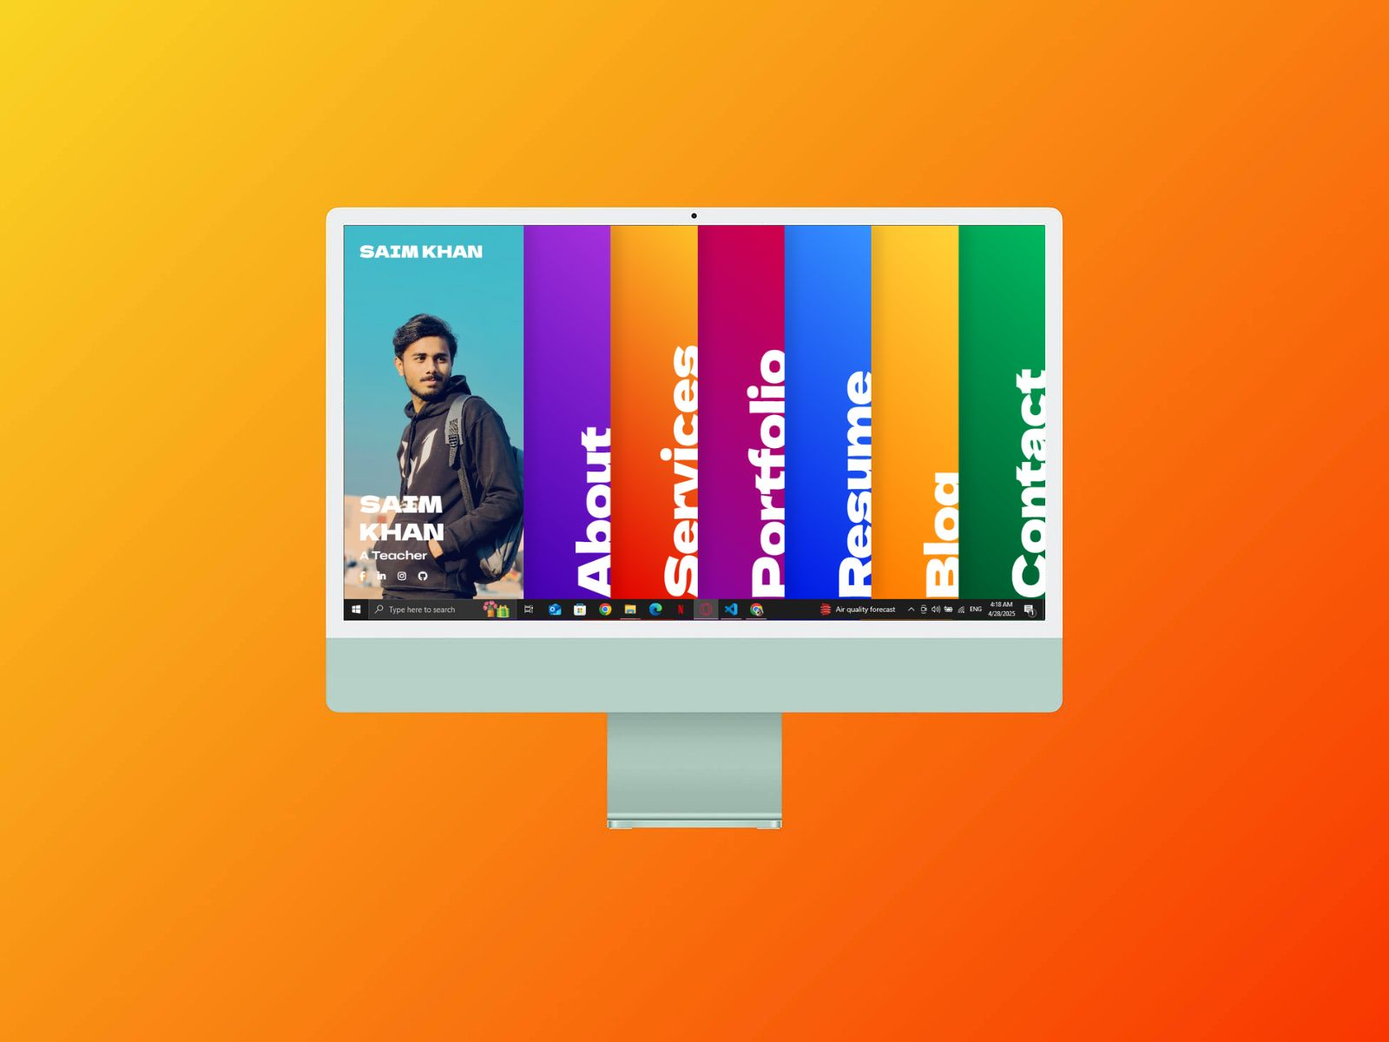
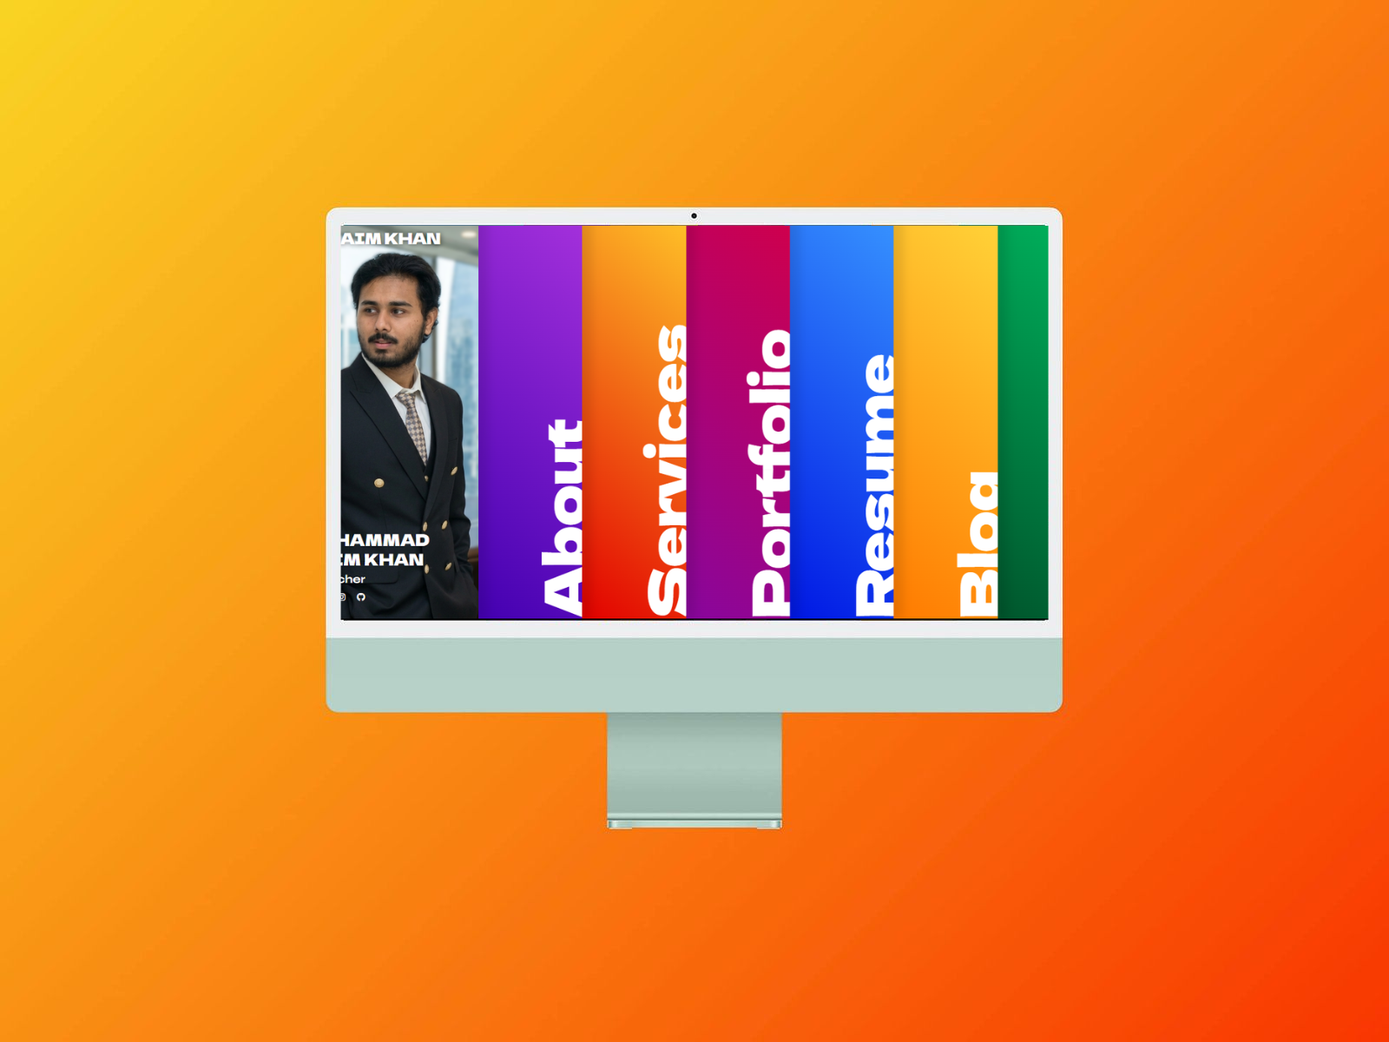
Finalized about, services and portfolio section

Changed region(s): [[0.2188, 0.2158, 0.7812, 0.6167]]

diff --git a/index.html b/index.html
@@ -47,9 +47,9 @@
   <body class="d-flex flex-column">
     <!-- ============================ HEADER START ============================== -->
     <header id="header" class="header-v1 d-flex transition">
-      <a class="navbar-brand" href="index.html"><h1 class="mainhead">M.  SAIM KHAN</h1></a>
+      <a class="navbar-brand" href="index.html"><h1 class="mainhead" style="text-shadow: 1px 1px 10px rgba(0, 0, 0, 0.5); color: rgb(255, 255, 255);">M.  SAIM KHAN</h1></a>
       <div class="header-img-hold z-index-1">
-        <img class="w-100 h-100 img-cover" src="include/images/hero.jpg" alt="">
+        <img class="w-100 h-100 img-cover" src="include/images/hero.png" alt="">
       </div>
       <div class="header-content d-flex flex-column align-items-start justify-content-end z-index-2">
         <h1 class="mb-2 text-uppercase" style="font-size:34px;">Muhammad<br>Saim Khan</h1>
@@ -66,10 +66,10 @@
             <a href="https://www.facebook.com/profile.php?id=100084107371898" target="_blank"><i class="fa-brands fa-facebook-f"></i></a>
           </li>
           <li>
-            <a href="" target="_blank"><i class="fa-brands fa-linkedin-in"></i></a>
+            <a href="https://www.linkedin.com/in/saim-khan-802534311/" target="_blank"><i class="fa-brands fa-linkedin-in"></i></a>
           </li>
           <li>
-            <a href="https://www.instagram.com/_s_a_i_m_0_7_?igsh=cXFvMjkwbHhuNHV3" target="_blank"><i class="fa-brands fa-instagram"></i></a>
+            <a href="https://www.instagram.com/sam.html_?igsh=cXFvMjkwbHhuNHV3" target="_blank"><i class="fa-brands fa-instagram"></i></a>
           </li>
           <li>
             <a href="https://github.com/itsSam0711" target="_blank"><i class="fa-brands fa-github"></i></a>
@@ -86,7 +86,7 @@
               About
               <span class="arrow outline"><i class="fa-solid fa-arrow-right"></i></span>
             </h2>
-            <h3 class="hero-heading" style="font-size: 34px;">I specialize in creating custom websites, implementing digital marketing strategies, and providing lead generation solutions.</h3>
+            <h3 class="hero-heading" style="font-size: 34px;">I’m currently researching AI to build modern intelligent tools, while bringing strong expertise in full stack web development and WordPress to create efficient, high-performing digital solutions.</h3>
 
             <div class="navbar-icon">
               <img src="include/images/about-icon.png" alt="">
@@ -111,7 +111,7 @@
               Services
               <span class="arrow outline"><i class="fa-solid fa-arrow-right"></i></span>
             </h2>
-            <h3 class="hero-heading" style="font-size: 34px;">I'm an IT student and a passionate web developer, focused on building clean, responsive, and dynamic websites. With every project, I sharpen my skills and push my creativity forward, turning ideas into impactful digital solutions.</h3>
+            <h3 class="hero-heading" style="font-size: 34px;">I offer a range of professional IT and development services focused on delivering efficient, scalable, and high-quality digital solutions.</h3>
             <div class="navbar-icon">
               <img src="include/images/services-icon.png" alt="">
             </div>
@@ -183,7 +183,7 @@
               Blog
               <span class="arrow outline"><i class="fa-solid fa-arrow-right"></i></span>
             </h2>
-            <h3 class="hero-heading">The Blog is currently underdevelopment. So, developer choosed to disable this portion for a while..</h3>
+            <h3 class="hero-heading">Check out my Blog..</h3>
             <div class="navbar-icon">
               <img src="include/images/blog-icon.png" alt="">
             </div>
@@ -259,10 +259,11 @@
                 <h2 class="page-heading text-clip bg-gradient-1">Hi, I am Saim Khan.</h2>
                 <div class="animate-child">
                   <p>
-                    I am a self-motivated and creative web developer with a keen eye for design and functionality. I specialize in creating websites that are not only visually appealing but also optimized for performance, accessibility, and user experience. Whether it's a simple landing page or a complex web application, I bring precision and innovation to every project.
+                    I am a results-driven <b>IT professional</b> with hands-on experience in full stack development, AI tools development, and practical software solutions. I have successfully built responsive web applications, along with custom WordPress websites tailored to real-world business needs. <br> I have developed <b>AI tools</b> using pretrained AI models.
+                    Like <b>Deep Fake AI videos detector</b>. I am passionate about leveraging technology to solve complex problems and create innovative solutions that drive business growth and efficiency.
                   </p>
                   <p>
-                    Currently expanding my portfolio, I continuously learn new technologies to stay ahead in the fast-changing digital world. I believe in turning challenges into opportunities and transforming visions into reality.
+                    In addition to development, I bring strong analytical and data-handling capabilities, with experience in organizing, structuring, and extracting meaningful insights from data. <br> My background in teaching and professional roles has further enhanced my communication, problem-solving, and adaptability in fast-paced environments.
                   </p>
                 </div>
               </div>
@@ -285,11 +286,19 @@
                     <h2 class="page-heading mb-48 mob-mb-24 text-clip bg-gradient-1">What I’m Currently Working On</h2>
                   </div>
                   <div class="col-lg-6 ms-auto opacity-75">
-                    <div class="animate-child">
-                      <p style="font-weight: 400;">Learning React.js <br>
-                      Learning Three.js <br>
-                      Exploring Clients</p>
-                    </div>
+                    <div class="animate-child ">
+                      <p style="font-weight: 400;">
+                        <ul>
+                          <li>AI Tools Development</li>
+                          <li>High efficiency web based applications</li>
+                          <li>Leveraging cutting-edge technology</li>
+                          <ul>
+                            <li>I am committed to delivering high-quality, performance-driven solutions while continuously upgrading my technical skill set to stay aligned with modern industry standards.</li>
+                          </ul>    
+                        </ul>
+                      
+                      </p>
+                      </div>
                   </div>
                 </div>
               </div>
@@ -303,9 +312,6 @@
                           "The future belongs to those who believe in the beauty of their dreams.
                         </blockquote>
                       </div>
-
-
-
 
                 </div>
               </div>
@@ -354,11 +360,11 @@
               <div class="col-lg-10">
                 <div class="page-heading-wrapper mb-90 tab-mb-64">
                   <div class="col-lg-11 animate-child">
-                    <h2 class="page-heading mb-48 mob-mb-24 text-clip bg-gradient-2">All solutions to help you grow your business.</h2>
+                    <h2 class="page-heading mb-48 mob-mb-24 text-clip bg-gradient-2">All solutions to help you to grow in technology.</h2>
                   </div>
                   <div class="col-lg-6 ms-auto opacity-75">
                     <div class="animate-child">
-                      <p>Beyond coding, I have strong expertise in digital marketing, social media management, email marketing, and lead generation, helping businesses build their online presence and connect with their audiences. My teaching background has enhanced my ability to communicate ideas clearly and work effectively in team environments.</p>                      
+                      <p>I provide a comprehensive range of technology-driven services designed to deliver practical, efficient, and high-quality digital solutions. <br> With a strong foundation in modern development tools and hands-on experience across multiple domains, I focus on creating results that are not only technically sound but also aligned with real-world needs and performance standards.</p>                      
                     </div>
                   </div>
                 </div>
@@ -369,7 +375,7 @@
                     <div class="service-left-container pe-lg-5 animate-child">
                       <h5>What I Offer
                       </h5>
-                      <p>I provide a range of services designed to help individuals and businesses build a strong and professional online presence. From developing fully responsive websites to implementing effective digital strategies, my goal is to deliver solutions that are visually appealing, functional, and tailored to your unique needs. Here’s what I can do for you:
+                      <p>I provide a range of services designed to help individuals and businesses build a strong and professional online presence. From developing fully responsive websites to implementing effective digital strategies and AI solutions, my goal is to deliver solutions that are visually appealing, functional, adapting new technologies, and tailored to your unique needs. <br> <b>Click on below items to learn more</b>:
                       </p>
                       <div class="pe-lg-5">
                         <div class="service-list-wrapper">
@@ -384,7 +390,7 @@
                                 aria-controls="service1"
                                 aria-selected="true"
                               >
-                              Web Development
+                              Full stack Web Development
                               <sup class="transition text-clip bg-gradient-2">01</sup>
                               </h4>
                             </li>
@@ -398,7 +404,7 @@
                                 aria-controls="service2"
                                 aria-selected="false"
                               >
-                              Email Marketing & Lead Generation<sup class="transition text-clip bg-gradient-2">02</sup>
+                              Ai Tools development<sup class="transition text-clip bg-gradient-2">02</sup>
                               </h4>
                             </li>
                             <li class="d-flex mb-2" role="presentation">
@@ -411,7 +417,7 @@
                                 aria-controls="service3"
                                 aria-selected="true"
                               >
-                              Virtual Assistant
+                              Wordpress or shopify website cloning and customization
                               <sup class="transition text-clip bg-gradient-2">03</sup>
                               </h4>
                             </li>
@@ -425,7 +431,7 @@
                                 aria-controls="service4"
                                 aria-selected="false"
                               >
-                              WordPress Development<sup class="transition text-clip bg-gradient-2">04</sup>
+                              E-Commerce Development and business strategies <sup class="transition text-clip bg-gradient-2">04</sup>
                               </h4>
                             </li>
                             <li class="d-flex mb-2" role="presentation">
@@ -451,7 +457,7 @@
                                 aria-controls="service6"
                                 aria-selected="false"
                               >
-                              E-Commerce Development<sup class="transition text-clip bg-gradient-2">06</sup>
+                              Software Tools Development<sup class="transition text-clip bg-gradient-2">06</sup>
                               </h4>
                             </li>
                           </ul>
@@ -472,9 +478,9 @@
 
                               <div class="service-details p-4 overflow-hidden shadow rounded-5">
                                 <h4 class="font-primary fw-bold">
-                                  <span class="text-clip bg-gradient-2">01. Web Development</span>
+                                  <span class="text-clip bg-gradient-2">01. Full Stack Web Development</span>
                                 </h4>
-                                <p>I design and develop responsive, user-friendly websites using HTML, CSS, and JavaScript.</p>
+                                <p>I design and develop responsive, user-friendly full-stack web applications using modern technologies.</p>
                                 <ul class="d-flex flex-column gap-2">
                                   <li>
                                     <span class="text-clip bg-gradient-2 d-inline-block"><i class="fa-solid fa-angles-right"></i> </span>
@@ -507,28 +513,27 @@
 
                               <div class="service-details p-4 overflow-hidden shadow rounded-5">
                                 <h4 class="font-primary fw-bold">
-                                  <span class="text-clip bg-gradient-2">02. Email Marketing & Lead Generation (LG)</span>
+                                  <span class="text-clip bg-gradient-2">02. AI Tools Development</span>
                                 </h4>
-                                <p>I design and execute email marketing campaigns that drive engagement and conversions. By using lead generation tactics, I help businesses grow their customer base, increase sign-ups, and boost sales.</p>
+                                <p>Research and development of modern AI-based tools, including deep learning concepts and practical implementations for real-world applications..</p>
                                 <ul class="d-flex flex-column gap-2">
                                   <li>
                                     <span class="text-clip bg-gradient-2 d-inline-block"><i class="fa-solid fa-angles-right"></i> </span>
-                                    Google Maps (LG)
+                                    Chatbots
                                   </li>
                                   <li>
                                     <span class="text-clip bg-gradient-2 d-inline-block"><i class="fa-solid fa-angles-right"></i></span>
-                                    Research based (LG)
+                                    Smart AI systems
                                   </li>
                                   <li>
                                     <span class="text-clip bg-gradient-2 d-inline-block"><i class="fa-solid fa-angles-right"></i></span>
-                                    LinkedIn (LG)
+                                    LLM and custom AI tools
                                   </li>
                                 </ul>
                               </div>
                             </div>
                           </div>
                         </div>
-
                         <div class="tab-pane w-100 h-100" id="service3" role="tabpanel" aria-labelledby="service3-tab" tabindex="0">
                           <div class="service-details-outer custom-tab-content w-100 h-100">
                             <div class="service-details-container w-100 h-100 position-relative">
@@ -539,9 +544,9 @@
 
                               <div class="service-details p-4 overflow-hidden shadow rounded-5">
                                 <h4 class="font-primary fw-bold">
-                                  <span class="text-clip bg-gradient-2">03. Virtual Assistant</span>
+                                  <span class="text-clip bg-gradient-2">03. Wordpress or Shopify website cloning and customization</span>
                                 </h4>
-                                <p>I offer administrative support services, helping with tasks such as email management, scheduling, research, data entry, and more.</p>
+                                <p>I can design and customize WordPress and Shopify websites to meet your specific needs and branding requirements.</p>
                                 <ul class="d-flex flex-column gap-2">
                                   <li>
                                     <span class="text-clip bg-gradient-2 d-inline-block"><i class="fa-solid fa-angles-right"></i> </span>
@@ -553,7 +558,7 @@
                                   </li>
                                   <li>
                                     <span class="text-clip bg-gradient-2 d-inline-block"><i class="fa-solid fa-angles-right"></i></span>
-                                    
+                                    Branding Integration
                                   </li>
                                 </ul>
                               </div>
@@ -571,10 +576,10 @@
 
                               <div class="service-details p-4 overflow-hidden shadow rounded-5">
                                 <h4 class="font-primary fw-bold">
-                                  <span class="text-clip bg-gradient-2">04. Wordpress Development</span>
+                                  <span class="text-clip bg-gradient-2">04. E-Commerce Development and business strategies</span>
                                 </h4>
 
-                                <p>I specialize in creating and customizing WordPress websites.</p>
+                                <p>I specialize in creating and optimizing e-commerce websites and developing effective business strategies for online retail.</p>
                                 <ul class="d-flex flex-column gap-2">
                                   <li>
                                     <span class="text-clip bg-gradient-2 d-inline-block"><i class="fa-solid fa-angles-right"></i> </span>
@@ -632,17 +637,17 @@
 
                               <div class="service-details p-4 overflow-hidden shadow rounded-5">
                                 <h4 class="font-primary fw-bold">
-                                  <span class="text-clip bg-gradient-2">06. Project Management</span>
+                                  <span class="text-clip bg-gradient-2">06. Software Tools Development</span>
                                 </h4>
-                                <p>I handle task delegation, timelines, and communication with teams to ensure smooth execution.</p>
+                                <p>I design and develop custom software tools to streamline workflows and enhance productivity.</p>
                                 <ul class="d-flex flex-column gap-2">
                                   <li>
                                     <span class="text-clip bg-gradient-2 d-inline-block"><i class="fa-solid fa-angles-right"></i> </span>
-                                    Time Management
+                                    ERP and MRP systems
                                   </li>
                                   <li>
                                     <span class="text-clip bg-gradient-2 d-inline-block"><i class="fa-solid fa-angles-right"></i></span>
-                                    Analytics and Report
+                                    Custom Software Solutions upon demand
                                   </li>
                                 </ul>
                               </div>
@@ -690,6 +695,23 @@
       </div>
       <!-- ============================ SERVICES SECTION END ============================ -->
 
+
+
+
+
+
+
+
+
+
+
+
+
+
+
+
+
+
       <!-- ============================ PORTFOLIO SECTION START ============================ -->
       <div class="page-section position-relative overflow-hidden" id="portfolio-section">
         <div class="content-container">
@@ -703,7 +725,7 @@
                   <div class="col-lg-6 ms-auto opacity-75">
                     <div class="animate-child">
                       <p>This page includes some of my Projects I have built.</p>
-                      <p>One of my best work is this site. This site is a copy of boka theme template from theme forest.</p>
+                      <p>One of my best work is this site. This site is a copy of paid boka theme template from theme forest.</p>
                     </div>
                   </div>
                 </div>
@@ -725,6 +747,7 @@
                           <div class="portfolio-category mb-120 tab-mb-80 mob-mb-24 d-flex flex-column gap-2 align-items-end">
                             <span class="px-3 py-2 rounded-pill fw-bold shadow">Html</span>
                             <span class="px-3 py-2 rounded-pill fw-bold shadow">CSS</span>
+                            <span class="px-3 py-2 rounded-pill fw-bold shadow">Bootstrap</span>
                             <span class="px-3 py-2 rounded-pill fw-bold shadow">JavaScript</span>
                           </div>
                           <div class="portfolio-link-wrapper">
@@ -735,21 +758,23 @@
                         </div>
                       </div>
                     </div>
-                    <!-- Will continue this section when to add new project -->
-                    <!-- <div class="portfolio-item swiper-slide">
+                    
+                    <div class="portfolio-item swiper-slide overflow-visible">
                       <div class="portfolio-box-wrapper">
                         <div class="portfolio-box">
                           <div class="portfolio-title transition position-relative z-index-10">
-                            <h2>Project Name 2</h2>
+                            <h2>Deep Fake Detection Engine</h2>
                           </div>
                           <div class="portfolio-box-img position-relative shadow">
                             <img src="include/images/portfolio2.jpg" alt="">
                           </div>
 
                           <div class="portfolio-category mb-120 tab-mb-80 mob-mb-24 d-flex flex-column gap-2 align-items-end">
-                            <span class="px-3 py-2 rounded-pill fw-bold shadow">Logo Design</span>
-                            <span class="px-3 py-2 rounded-pill fw-bold shadow">Branding</span>
-                            <span class="px-3 py-2 rounded-pill fw-bold shadow">UX/UI</span>
+                            <span class="px-3 py-2 rounded-pill fw-bold shadow">Python</span>
+                            <span class="px-3 py-2 rounded-pill fw-bold shadow">Machine Learning</span>
+                            <span class="px-3 py-2 rounded-pill fw-bold shadow">Data Analysis</span>
+                            <span class="px-3 py-2 rounded-pill fw-bold shadow">Hugging Face</span>
+                            <span class="px-3 py-2 rounded-pill fw-bold shadow">React and FastAPI</span>
                           </div>
                           <div class="portfolio-link-wrapper">
                             <span class="d-inline-block transition">
@@ -781,8 +806,8 @@
                           </div>
                         </div>
                       </div>
-                    </div> -->
-                    <!-- <div class="portfolio-item swiper-slide">
+                    </div>
+                     <div class="portfolio-item swiper-slide">
                       <div class="portfolio-box-wrapper">
                         <div class="portfolio-box">
                           <div class="portfolio-title transition position-relative z-index-10">
@@ -804,7 +829,7 @@
                           </div>
                         </div>
                       </div>
-                    </div> -->
+                    </div>
                   </div>
                   <div class="swiper-button-next"></div>
                   <div class="swiper-button-prev"></div>
@@ -876,7 +901,7 @@
                   </div>
                   <div class="col-lg-6 ms-auto opacity-75">
                     <div class="animate-child"> 
-                      <p>Note: The figures shown in the animation are for illustrative purposes only and do not reflect completed projects at this time. Accurate data and real project statistics will be updated as work is completed. This is to ensure full transparency and to maintain the highest level of professionalism.</p> -->
+                      <p>Note: The figures shown in the animation are for illustrative purposes only and do not reflect completed projects at this time. Accurate data and real project statistics will be updated as work is completed. This is to ensure full transparency and to maintain the highest level of professionalism.</p> 
                       <!-- <p>Harum placeat iusto, eius esse eaque natus rerum praesentium debitis..</p> -->
                     </div>
                   </div>

diff --git a/include/css/style.css b/include/css/style.css
@@ -7,3 +7,8 @@
     .navbar-v1-block.remove{height: 0 !important; width: 100%!important;}
     .navbar-v1-block.full{height: 100dvh !important;}
   }
+  .about-current-working {
+    display: flex;
+    flex-direction: row;
+    gap: 10px;
+  }
